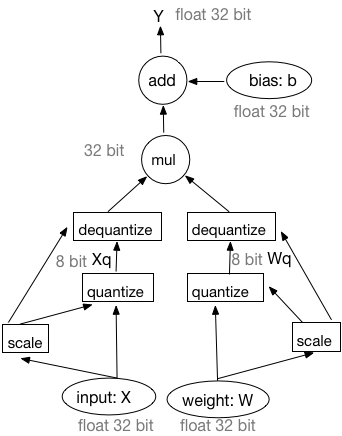
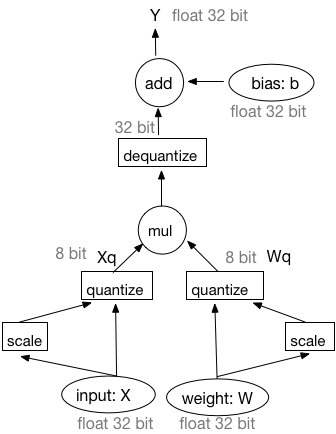
Update the backward part.

diff --git a/doc/fluid/design/quantization/fixed_point_quantization.md b/doc/fluid/design/quantization/fixed_point_quantization.md
@@ -36,17 +36,17 @@ How to calculate the quantization range (or maximum absolute value) for inferenc
 
 ### Training Framework
 
+#### Forward pass
+
+The forward pass is simulated quantization, see the figure 1.
+
 The training framework is as following figure. 
 
 <p align="center"> 
-<img src="quantization_training_framework.png" align="center"/><br/>
+<img src="quantization_forward.png" width="300" height="340" /><br/>
 
-Fig 1. Forward and backward in training.
+Fig 1. Forward in training with simulated quantization.
 </p>
-
-#### Forward pass
-
-The forward pass is simulated quantization, see the figure a.
 
 - At first, both input and weight will be quantized to 8 bit. 
 - Then, do the multiplication (or convolution) operation with integers.
@@ -68,7 +68,7 @@ Dequantize $Y$:
 $$
 \begin{align}
 Y_{dq} &=\frac{Y}{(n - 1) * (n - 1)} * X_m * W_m \\\
-       &=\frac{X_q * W_q}{(n - 1) * (n - 1)} * X_m * W_m \\
+       &=\frac{X_q * W_q}{(n - 1) * (n - 1)} * X_m * W_m \\\
        &=(\frac{X_q}{n - 1} * X_m) * (\frac{W_q}{n - 1} * W_m) 
 \end{align}
 $$
@@ -76,9 +76,9 @@ $$
 From these formulas, dequantization also can be moved before GEMM, do dequantization for $Xq$ and $Wq$ at first, then do GEMM. The forward workflow in training is equivalent to following framework.
 
 <p align="center"> 
-<img src="quantization_forward.png"  width="300" height="300"  /><br/>
+<img src="quantization_forward.png"  width="300" height="330"  /><br/>
 
-Fig 2. Equitvalent forward in training.
+Fig 2. Equitvalent forward in training with simulated quantization.
 
 </p>
 
@@ -86,9 +86,16 @@ We use this equivalent workflow in the training. In our desigin, there is a quan
 
 #### Backward pass
 
-See the figure b. The backward pass still remains unchanged, all inputs and outputs of backward operator are float point with 32 bit.
+See the figure 3. The gradients are calculated by dequantized weights and activations. All inputs and outputs are float point with 32 bit. And in the weight updating process, the gradients will be added to the original weight, not the quantized or dequantized weights.
 
-So the quantization transipler should not change the backward pass. 
+<p align="center"> 
+<img src="quantization_backward_and_optimization.png" /><br/>
+
+Fig 3. Backward and weight updating in training with simulated quantization.
+
+</p>
+
+So the quantization transipler will change some inputs of the corresponding backward operators. 
 
 ### How to calculate quantization scale
 
